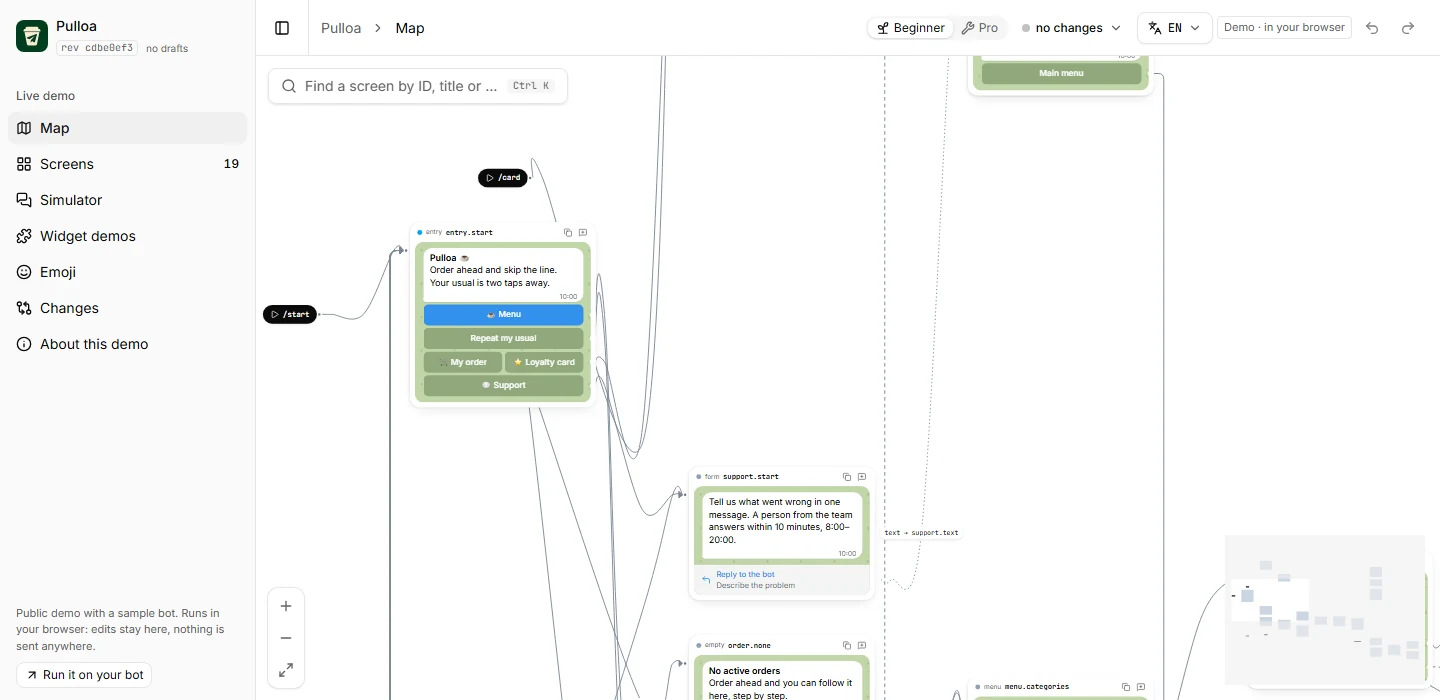
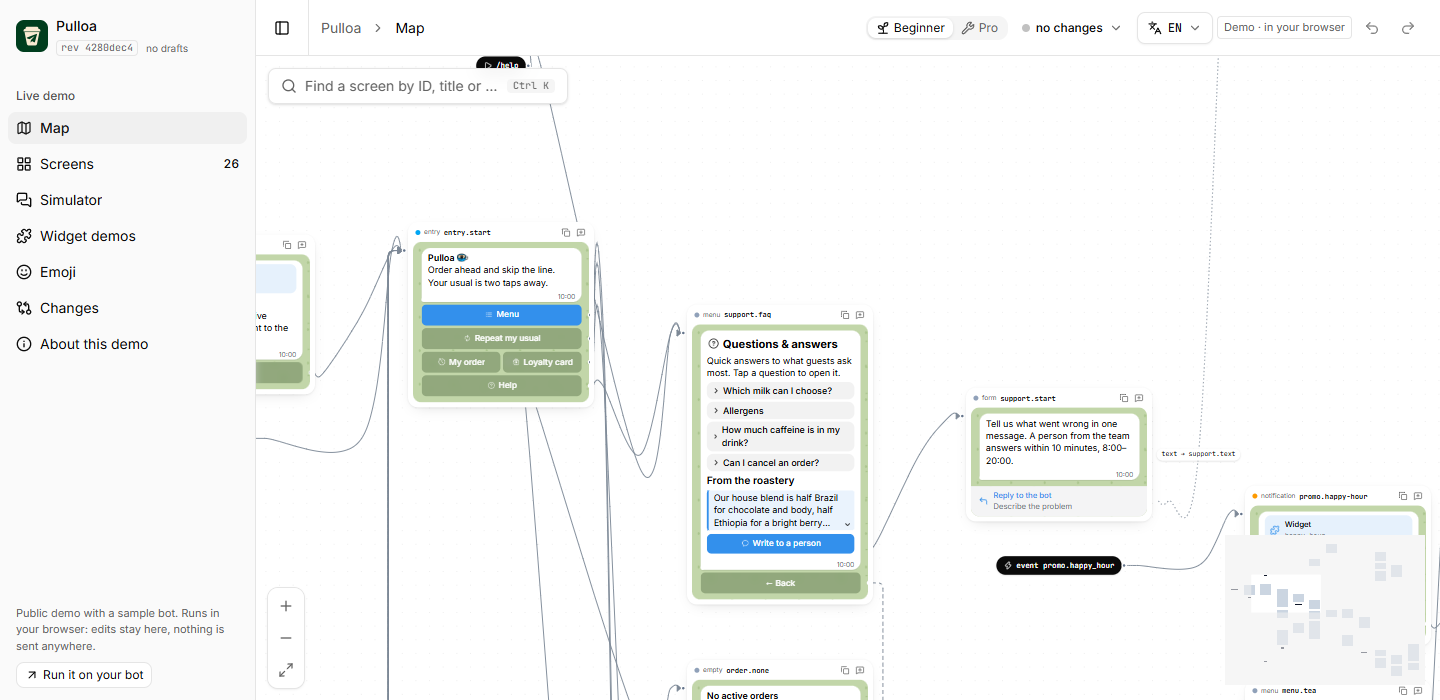
feat(site): Studio screenshots from the rich demo: order.happy in the simulator, the Rich receipt in the editor, the new map

diff --git a/src/components/site/studio.tsx b/src/components/site/studio.tsx
@@ -30,12 +30,12 @@ export function Studio() {
             <div>
               <h3 className="text-xl font-semibold tracking-tight sm:text-2xl">Telegram simulator</h3>
               <p className="mt-2 max-w-md leading-7 text-muted-foreground">
-                Place an order as a customer, retry a declined payment or see what a first-time visitor gets.
+                Place an order as a customer and watch every update: a Rich receipt, the live order widget, the pickup guide. Retry a declined payment or see what a first-time visitor gets.
               </p>
             </div>
             <Image
               src="/studio/simulator.webp"
-              alt={`${DEMO_BOT_NAME}’s start screen in the Studio’s Telegram simulator, with premium emoji in the message and on the buttons`}
+              alt={`${DEMO_BOT_NAME}’s order in the Studio’s Telegram simulator: a Rich receipt with a table, the live order-status widget and the pickup guide`}
               width={500}
               height={620}
               unoptimized
@@ -46,12 +46,12 @@ export function Studio() {
             <div>
               <h3 className="text-xl font-semibold tracking-tight sm:text-2xl">Screen editor</h3>
               <p className="mt-2 max-w-lg leading-7 text-muted-foreground">
-                Edit messages, button labels and transitions. See the change in the chat preview and follow its route on the map.
+                Edit messages, Rich documents with tables and buttons, labels and transitions. See the change in the chat preview and follow its route on the map.
               </p>
             </div>
             <Image
               src="/studio/editor.webp"
-              alt="The Start screen’s message and keyboard alongside their live chat preview in Studio"
+              alt="The receipt screen’s Rich message, with a compact table and a copy button, alongside its live chat preview in Studio"
               width={760}
               height={620}
               unoptimized

diff --git a/README.md b/README.md
@@ -25,7 +25,7 @@ other host, put the app behind a proxy that overwrites them, or a caller can cho
 - Every claim comes from the skill repository. Facts, install commands and FAQ live in `src/content/site.ts`; update it with each skill release.
 - Agent docs: `/agents.md`, `/llms.txt` and `/llms-full.txt` (in `public/`) and the version, Bot API, hosts and commands behind `/agents` (`src/content/agents.generated.json`) are generated by the skill repository in `docs/agents/`. Copy them with `py -3 scripts/sync_agent_docs.py --skill ../telegram-bot-ui` and commit the result; `--check` exits 1 when a copy differs. Never edit them by hand. `npm test` checks that the site shows that version and that the links in them resolve.
 - Demo video: web copies in `public/video/` (58 s, 1280x720 H.264 MP4 with faststart and VP9 WebM, ~4.4 MB and ~3.5 MB; v2 with real bot-ui Studio footage), wired up in `DEMO_VIDEO` in `src/content/site.ts`. It loads only when played, autoplays muted while in view and never autoplays with reduced motion.
-- Studio: `/studio` embeds the offline build of the Pulloa project in `demo/bot-ui/`. Build the public-demo client with `npm run build:artifact` in its `studio/web` folder, then run `python scripts/build_demo.py --studio /path/to/studio` here. Refresh the lossless screenshots in `public/studio/` from that build when the UI changes: map at 1440×700 and 390×420, simulator checkout at 500×620, Start screen editor at 760×620.
+- Studio: `/studio` embeds the offline build of the Pulloa project in `demo/bot-ui/`. Build the public-demo client with `npm run build:artifact` in its `studio/web` folder, then run `python scripts/build_demo.py --studio /path/to/studio` here. Refresh the lossless screenshots in `public/studio/` from that build when the UI changes: map at 1440×700 and 390×420, simulator after the order.happy scenario at 500×620, receipt screen editor (order.receipt) at 760×620.
 - The GitHub star count is fetched at build time and refreshed hourly.
 - `NEXT_PUBLIC_SITE_URL` overrides the canonical origin. Production defaults to `https://telegram-bot-ui.hlixli.com`, and Vercel previews use their own origin.
 - The catalog, pack pages, and sitemap use the existing server-side `EMOJI_RESOLVER_BOT_TOKEN`. Pack pages and the sitemap resolve data on request. The documentation and other site pages also render locally without the resolver.
